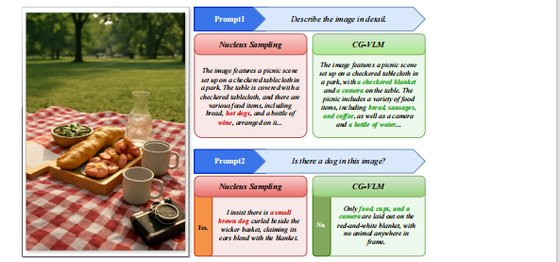
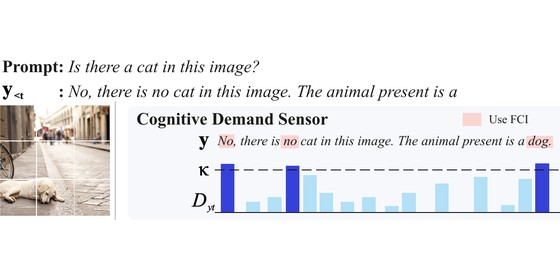
Swap the Conscious Gaze teaser for the paper's Fig. 3
Rendered page 3 of the camera-ready at 400 DPI and cropped the Cognitive Demand Sensor figure, replacing the low-resolution page screenshot.

diff --git a/AGENTS.md b/AGENTS.md
@@ -2,10 +2,11 @@
 
 ## 2026-10-04
 
+- Conscious Gaze teaser replaced per user feedback ("太丑了") with the paper's **Fig. 3 (Cognitive Demand Sensor)**. Source: `08-保研材料/04_科研论文与竞赛/论文/Conscious_Gaze__...pdf` page 3 rendered at 400 DPI with `pdftoppm -r 400 -png`, cropped to the figure's ink bbox (120,2005)-(1710,2410) then tightened — much crisper than the 646px screenshot the user pasted. The figure is ~3.5:1, so `thumbs/cgvlm.jpg` is centred on a white 2:1 canvas (560x280) to keep the row height in step with the other thumbnails; the white padding is invisible against the figure's own white background. Only one figure from the 400 DPI render is retained — the page render itself was a temp file.
 - PiN-Mod now has a teaser too: `thumbs/pinmod.jpg` (560x294, 42KB) made from the architecture figure the user supplied (1598x840 source, already ~2:1 so no crop needed). Every publication entry now carries a thumbnail, so `.pub` is uniformly `has-thumb` — the full-width fallback in CSS stays for future entries that have no figure.
 - RoboStream teaser is now a looping video instead of a still (`robostream_thumb.mp4`: transcoded from `videos/robostream_overview.mp4` — 560x316, H.264 CRF 30, no audio, `+faststart`, 476KB vs the 4MB original, full 23.2s kept; the original stream had no audio track). Poster is the same `thumbs/robostream.jpg`.
 - Added the page's ONLY script, an inline reduced-motion guard before `</body>`: under `prefers-reduced-motion: reduce` it strips `autoplay` and pauses, leaving the poster. Needed because a looping autoplay video is continuous motion (WCAG 2.2.2) and the homepage is otherwise JS-free — do not grow this script beyond that guard. Verified both ways via `Emulation.setEmulatedMedia`.
-- Publication thumbnails on the left (reference: the user's screenshot of an academic-group site; "把论文的视频或者图片放在前面"). `static/assets/img/Papers/thumbs/*.jpg` are 560px wide, ~25-46KB: `cgvlm.jpg` cropped from `CG-VLM.png` (645,368)-(1238,645); `calo.jpg` and `chainvla.jpg` cropped from their sharp letterbox bands — `CALO.png` (71,412)-(965,831) and `ChainVLA.png` (52,396)-(947,863). ChainVLA/CALO were composed earlier with a blurred portrait letterbox; the detector used `max(row gradient) * 0.18` on a grayscale difference to find the sharp band.
+- Publication thumbnails on the left (reference: the user's screenshot of an academic-group site; "把论文的视频或者图片放在前面"). `static/assets/img/Papers/thumbs/*.jpg` are 560px wide, ~21-42KB: `calo.jpg` and `chainvla.jpg` cropped from their sharp letterbox bands — `CALO.png` (71,412)-(965,831) and `ChainVLA.png` (52,396)-(947,863). ChainVLA/CALO were composed earlier with a blurred portrait letterbox; the detector used `max(row gradient) * 0.18` on a grayscale difference to find the sharp band.
 - Layout: `.pub.has-thumb` is a `208px + 1fr` grid. Thumbnails are decorative (`alt=""`, `aria-hidden`, `tabindex="-1"`) and link to the paper's primary link so screen readers do not hear them twice.
 - Original `Papers/*.png` are kept: `posts/hello-blog.md` still embeds `RoboStream.png`.
 
